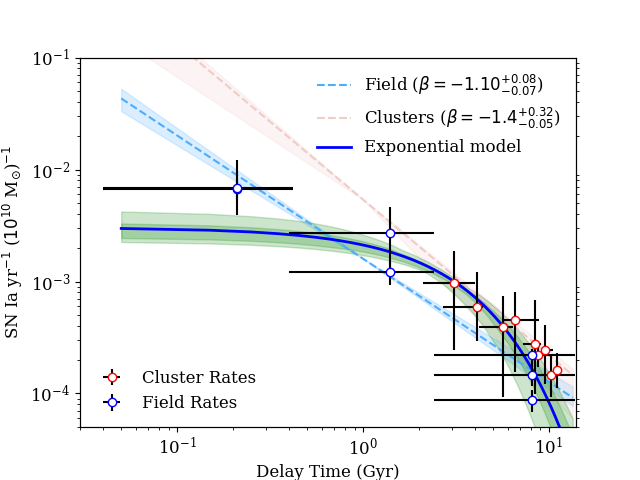
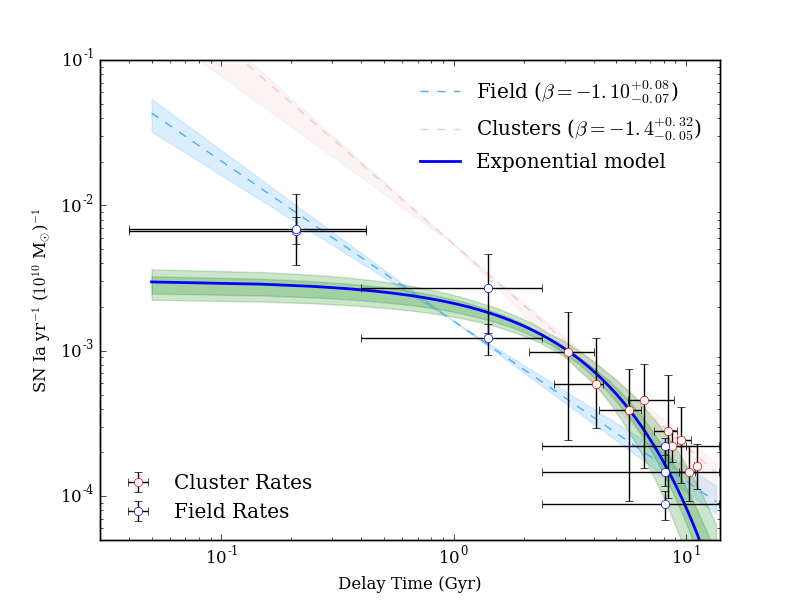
new file:   Bin_synth/figure_toonan.png 	new file:   Bin_synth/plot_tga.py 	new file:   Bin_synth/plot_tga.py~ 	new file:   Bin_synth/toonan_ga.txt 	new file:   Bin_synth/toonan_ga.txt~ 	modified:   analysis/scripts/figure_loglog_dtd.png 	modified:   analysis/scripts/plot_loglog_dtd.py

diff --git a/Bin_synth/plot_tga.py b/Bin_synth/plot_tga.py
@@ -1,0 +1,58 @@
+#!/usr/bin/env python
+import os,sys,pdb,scipy,glob
+from pylab import *
+from strolger_util import util as u
+from strolger_util import rates_z as rz
+from scipy.optimize import curve_fit
+
+if __name__=='__main__':
+
+
+
+    ax=subplot(111)
+    ax2=ax.twinx()
+    data=loadtxt('toonan_ga.txt')
+
+
+    p1 = [-1257.93, 59.32, 248.88] ## from MCMC
+    time = arange(0.05,13.5,0.1)
+    scale = 12.921*(0.0210)*0.062*(0.7)**2
+    dtd = scale*rz.dtdfunc(time,*p1)
+
+    def fn(x,*p):
+        aa=p
+        return(rz.dtdfunc(x,*p1)*scale*aa)
+    
+    p0 = [1.0]
+    popt,pcov = curve_fit(fn, data[:,0],data[:,2],p0=p0)
+    print(popt)
+    ax.plot(time,dtd,'b-', lw=2, label= 'Exponential model')#label='Norm = %1.1f' %(simps(dtd,x=time)))
+    ax2.plot(data[:,0], data[:,2]/(popt*0.5),'k-',label=r'$\alpha\alpha$ model, Toonan et al. 2012')
+
+    pwrl = (-1.39, 1.0)
+    dtd = rz.powerdtd(time, *pwrl, normed=False)*5.4e-3
+
+    def fn2(x,*p):
+        aa = p
+        return(rz.powerdtd(x, *pwrl, normed=False)*5.4e-3*aa)
+     
+    p0 = [1.0]
+    popt,pcov = curve_fit(fn2, data[:,0],data[:,1],p0=p0)
+    print(popt)
+   
+    ax.plot(time, dtd, 'r-', label=r'Power-law model; $\beta=-1$')
+    ax2.plot(data[:,0], data[:,1]/popt,'k--',label=r'$\gamma\alpha$ model')
+    
+    ax.set_yscale('log')
+    ax2.set_yscale('log')
+    ax.set_xlabel('Delay time (Gyr)')
+    ax.set_ylabel(r'SN Ia yr$^{-1}$ ($10^{10}$ M$_{\odot}$)$^{-1}$')
+    ax2.set_ylabel(r'Merger rate  yr$^{-1}$ ($10^{10}$ M$_{\odot}$)$^{-1}$')
+
+    ax.set_ylim(2e-5, 0.1)
+    ax2.set_ylim(2e-5, 0.1)
+
+    ax.legend(frameon=False)
+    ax2.legend(loc=3,frameon=False)
+    savefig('figure_toonan.png')
+    

diff --git a/analysis/scripts/plot_loglog_dtd.py b/analysis/scripts/plot_loglog_dtd.py
@@ -73,7 +73,6 @@ ax2.errorbar(data[idx][:,0], data[idx][:,3]*msc,
 
 
 
-rz.dtdfunc(time,*p0)
 popt, pcov = curve_fit(func, data[:,0], data[:,3]*msc, p0=p_t, sigma=data[:,4]*msc)
 print(popt)
 ax.plot(time,dtd*scale*popt,'b-', lw=2, label= 'Exponential model')#label='Norm = %1.1f' %(simps(dtd,x=time)))
@@ -110,8 +109,8 @@ ax.set_xlabel('Delay Time (Gyr)')
 ax.set_xlim(0.03, 14)
 ax.set_ylim(5e-5,0.1)
 ax2.set_ylim(5e-5,0.1)
-ax.legend(loc=1,frameon=False)
-ax2.legend(loc=3,frameon=False)
+ax.legend(loc=1,numpoints=1,frameon=False)
+ax2.legend(loc=3,numpoints=1,frameon=False)
 ax.set_xscale('log')
 ax.set_yscale('log')
 ax2.set_yscale('log')
